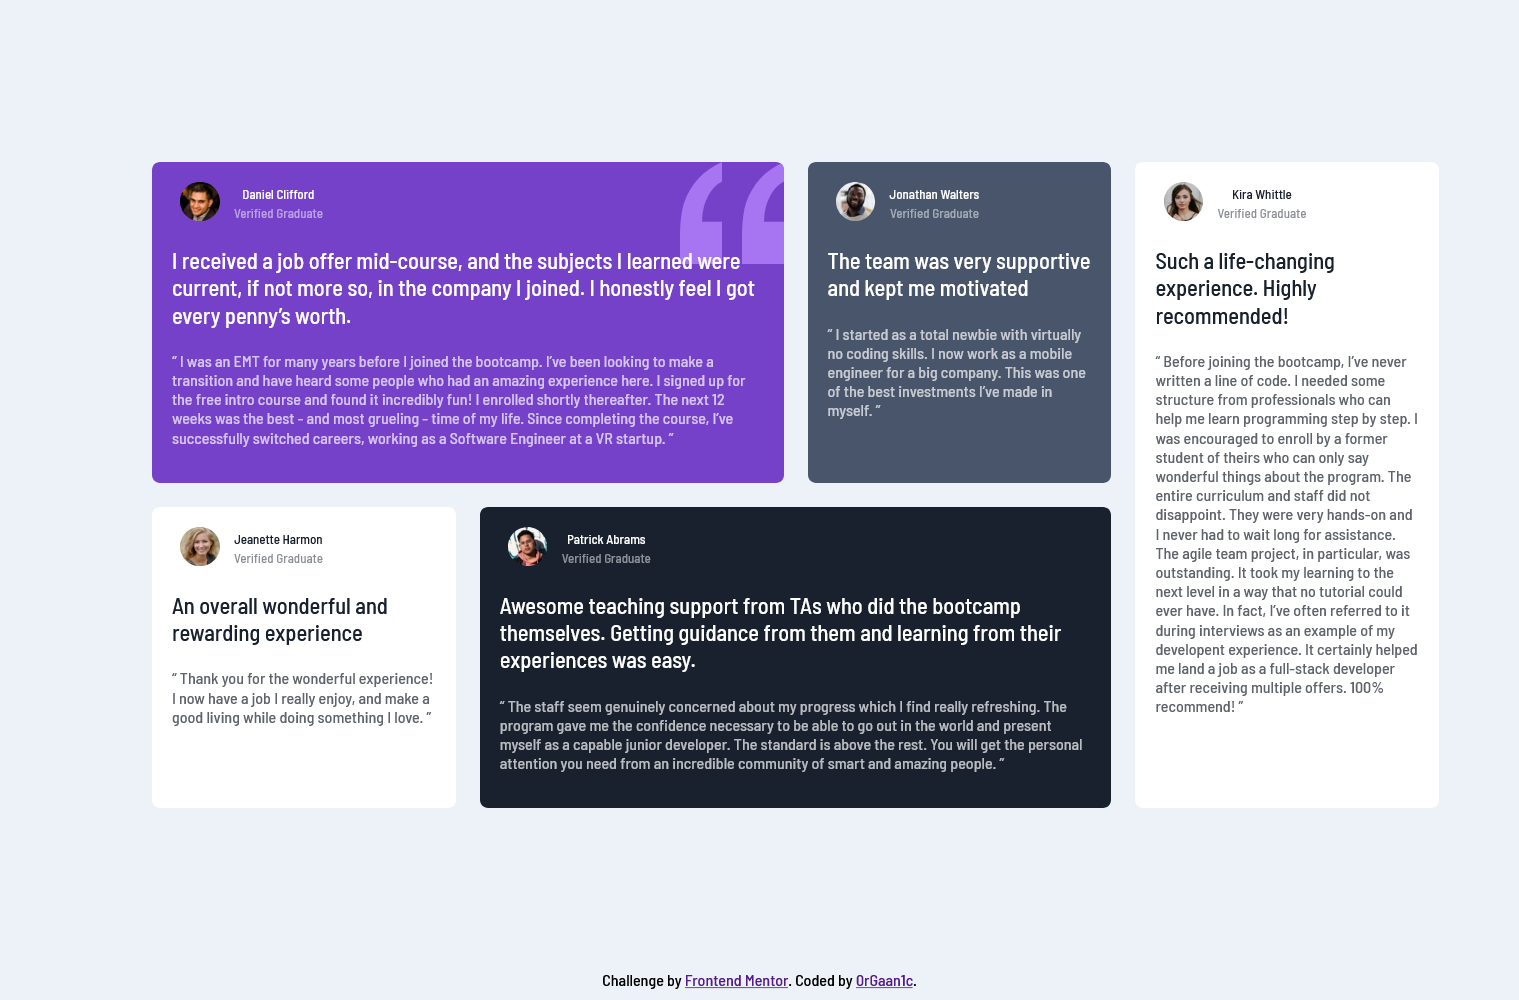
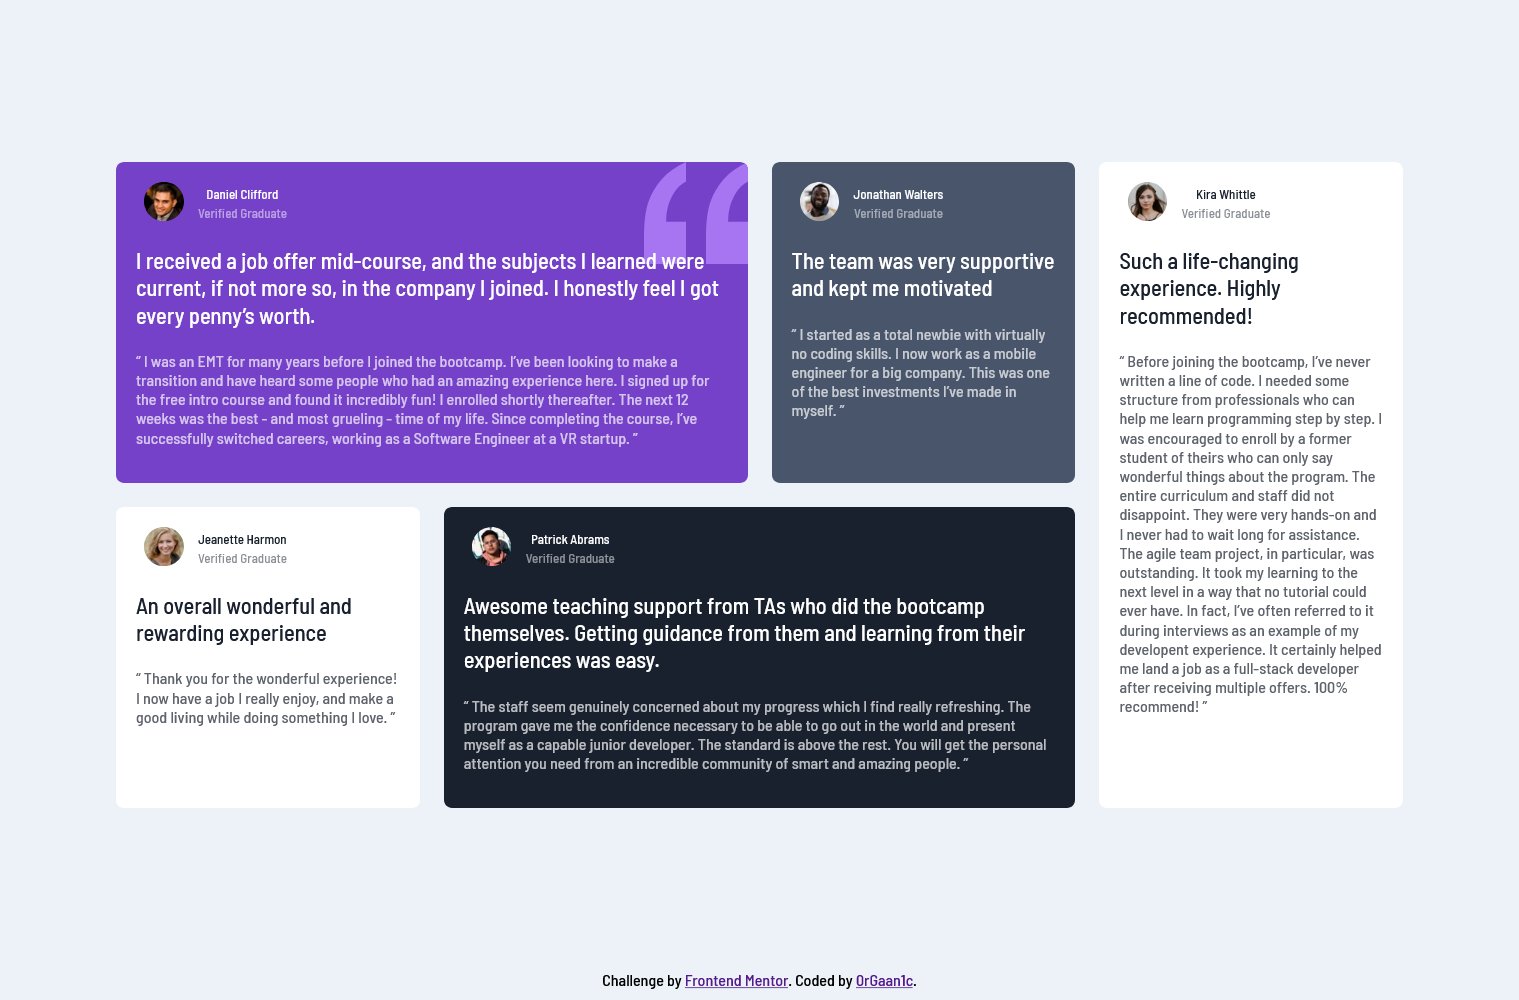
testimonials-grid-section-fixed some design issues

Changed region(s): [[0.0619, 0.155, 0.9282, 0.806]]

diff --git a/testimonials-grid-section/dist/styles.css b/testimonials-grid-section/dist/styles.css
@@ -21,23 +21,18 @@ body {
 .container {
   width: 90%;
   margin: 4.375rem auto;
-  display: -ms-grid;
-  display: grid;
-  gap: 1.5rem;
-  -ms-grid-columns: 1fr;
-      grid-template-columns: 1fr;
-  -ms-grid-rows: 20% 20% 20% 20%;
-      grid-template-rows: 20% 20% 20% 20%;
-      grid-template-areas: "daniel" "jonathan" "jeanette" "patrick" "kira";
-  -webkit-box-pack: center;
-      -ms-flex-pack: center;
-          justify-content: center;
 }
 
 @media (min-width: 64em) {
   .container {
+    display: -ms-grid;
+    display: grid;
+    -webkit-box-pack: center;
+        -ms-flex-pack: center;
+            justify-content: center;
     width: 80%;
     margin: 10.125rem auto;
+    gap: 1.5rem;
     -ms-grid-columns: 25% 25% 25% 25%;
         grid-template-columns: 25% 25% 25% 25%;
     -ms-grid-rows: 50% 50%;
@@ -48,6 +43,13 @@ body {
 
 .container article {
   border-radius: 8px;
+  margin-bottom: 20px;
+}
+
+@media (min-width: 64em) {
+  .container article {
+    margin-bottom: 0;
+  }
 }
 
 .container article .testimony {
@@ -99,22 +101,16 @@ body {
   background-image: url("../../images/bg-pattern-quotation.svg");
   background-repeat: no-repeat;
   background-position-x: right;
-  -ms-grid-row: 1;
-  -ms-grid-column: 1;
   grid-area: daniel;
 }
 
 #jonathan {
-  -ms-grid-row: 2;
-  -ms-grid-column: 1;
   grid-area: jonathan;
   background-color: #48556a;
 }
 
 #jeanette {
   background-color: white;
-  -ms-grid-row: 3;
-  -ms-grid-column: 1;
   grid-area: jeanette;
 }
 
@@ -136,15 +132,11 @@ body {
 
 #patrick {
   background-color: #19212e;
-  -ms-grid-row: 4;
-  -ms-grid-column: 1;
   grid-area: patrick;
 }
 
 #kira {
   background-color: white;
-  -ms-grid-row: 5;
-  -ms-grid-column: 1;
   grid-area: kira;
 }
 

diff --git a/testimonials-grid-section/app/scss/_main.scss b/testimonials-grid-section/app/scss/_main.scss
@@ -1,16 +1,13 @@
 .container {
   width: 90%;
   margin: 4.375rem auto;
-  display: grid;
-  gap: 1.5rem;
-  grid-template-columns: 1fr;
-  grid-template-rows: 20% 20% 20% 20%;
-  grid-template-areas: "daniel" "jonathan" "jeanette" "patrick" "kira";
-  justify-content: center;
 
   @include breakpoint-up(large) {
+    display: grid;
+    justify-content: center;
     width: 80%;
     margin: 10.125rem auto;
+    gap: 1.5rem;
     grid-template-columns: 25% 25% 25% 25%;
     grid-template-rows: 50% 50%;
     grid-template-areas:
@@ -20,6 +17,11 @@
 
   article {
     border-radius: 8px;
+    margin-bottom: 20px;
+
+    @include breakpoint-up(large) {
+      margin-bottom: 0;
+    }
 
     .testimony {
       padding: 20px;
